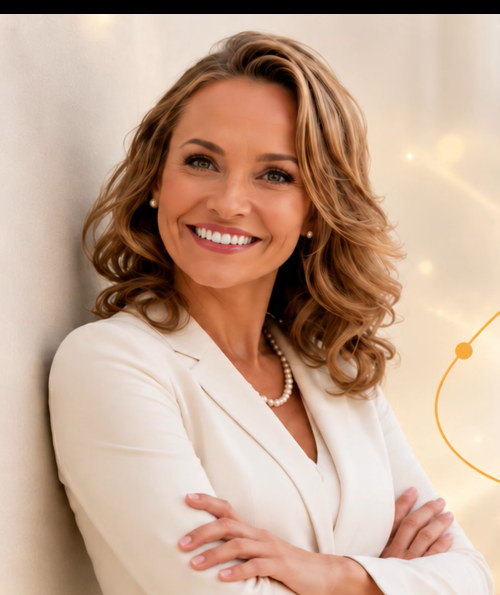
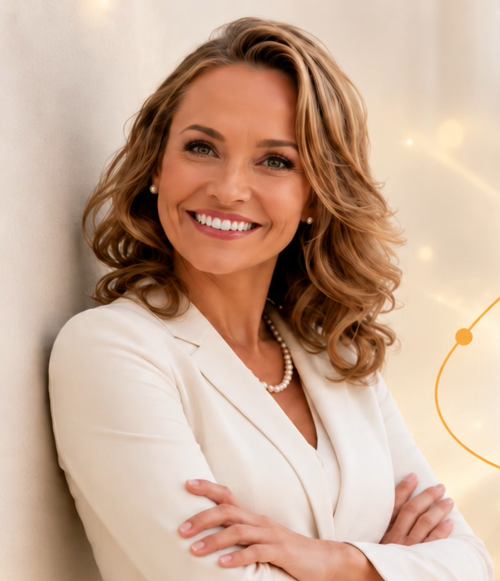
Clean portrait source edge

diff --git a/index.html b/index.html
@@ -166,7 +166,7 @@
                     <span class="portrait-motion-glint"></span>
                   </div>
                   <picture class="portrait-photo">
-                    <img src="/assets/alana-standing-arms-crossed-crop.png" alt="Alana K. Vandeveer, host of The Alana Show, standing with her arms crossed" width="500" height="595" fetchpriority="high" decoding="async">
+                    <img src="/assets/alana-standing-arms-crossed-crop.png" alt="Alana K. Vandeveer, host of The Alana Show, standing with her arms crossed" width="500" height="581" fetchpriority="high" decoding="async">
                   </picture>
                 </div>
               </div>

diff --git a/src/components/Hero.js b/src/components/Hero.js
@@ -2,7 +2,7 @@ import { icon } from "../lib/icons.js";
 
 const ALANA_PORTRAIT = "/assets/alana-standing-arms-crossed-crop.png";
 const ALANA_PORTRAIT_WIDTH = 500;
-const ALANA_PORTRAIT_HEIGHT = 595;
+const ALANA_PORTRAIT_HEIGHT = 581;
 
 export function Hero() {
   return `

diff --git a/src/host-portrait-refresh.css b/src/host-portrait-refresh.css
@@ -8,7 +8,7 @@ body:has(.hero#home) .portrait-stage {
 
 body:has(.hero#home) .portrait-frame {
   width: min(100%, 438px);
-  aspect-ratio: 500 / 595;
+  aspect-ratio: 500 / 581;
   margin-inline: auto;
   overflow: hidden;
   border: 1px solid rgba(225, 194, 112, .38);
